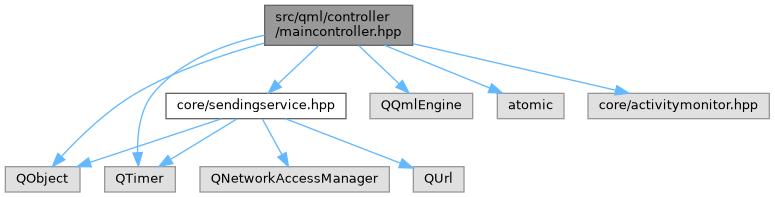
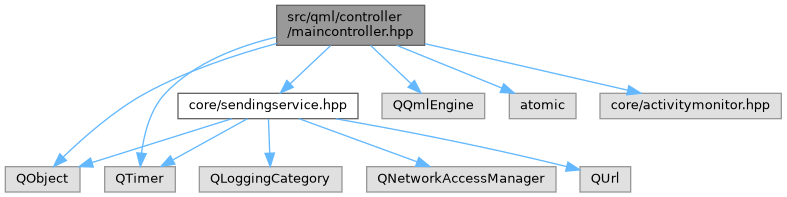
deploy: a168340f346ddaff8e5946f9dd9495eeeb2980ed

diff --git a/sendingservice_8hpp_source.html b/sendingservice_8hpp_source.html
@@ -83,45 +83,48 @@ $(document).ready(function() { init_codefold(0); });
 <div class="contents">
 <a href="sendingservice_8hpp.html">Go to the documentation of this file.</a><div class="fragment"><div class="line"><a id="l00001" name="l00001"></a><span class="lineno">    1</span><span class="preprocessor">#pragma once</span></div>
 <div class="line"><a id="l00002" name="l00002"></a><span class="lineno">    2</span> </div>
-<div class="line"><a id="l00003" name="l00003"></a><span class="lineno">    3</span><span class="preprocessor">#include &lt;QNetworkAccessManager&gt;</span></div>
-<div class="line"><a id="l00004" name="l00004"></a><span class="lineno">    4</span><span class="preprocessor">#include &lt;QObject&gt;</span></div>
-<div class="line"><a id="l00005" name="l00005"></a><span class="lineno">    5</span><span class="preprocessor">#include &lt;QTimer&gt;</span></div>
-<div class="line"><a id="l00006" name="l00006"></a><span class="lineno">    6</span><span class="preprocessor">#include &lt;QUrl&gt;</span></div>
-<div class="line"><a id="l00007" name="l00007"></a><span class="lineno">    7</span> </div>
-<div class="line"><a id="l00008" name="l00008"></a><span class="lineno">    8</span><span class="keyword">class </span>QNetworkReply;</div>
-<div class="line"><a id="l00009" name="l00009"></a><span class="lineno">    9</span> </div>
-<div class="foldopen" id="foldopen00014" data-start="{" data-end="};">
-<div class="line"><a id="l00014" name="l00014"></a><span class="lineno"><a class="line" href="classSendingService.html">   14</a></span><span class="keyword">class </span><a class="code hl_class" href="classSendingService.html">SendingService</a> : <span class="keyword">public</span> QObject</div>
-<div class="line"><a id="l00015" name="l00015"></a><span class="lineno">   15</span>{</div>
-<div class="line"><a id="l00016" name="l00016"></a><span class="lineno">   16</span>    Q_OBJECT</div>
-<div class="line"><a id="l00017" name="l00017"></a><span class="lineno">   17</span> </div>
-<div class="line"><a id="l00018" name="l00018"></a><span class="lineno">   18</span><span class="keyword">public</span>:</div>
-<div class="line"><a id="l00024" name="l00024"></a><span class="lineno"><a class="line" href="classSendingService.html#a4725127232ea47a6cd1708510d5abec8">   24</a></span>    <span class="keyword">explicit</span> <a class="code hl_function" href="classSendingService.html#a4725127232ea47a6cd1708510d5abec8">SendingService</a>(QObject *parent = <span class="keyword">nullptr</span>);</div>
-<div class="line"><a id="l00025" name="l00025"></a><span class="lineno">   25</span> </div>
-<div class="line"><a id="l00030" name="l00030"></a><span class="lineno"><a class="line" href="classSendingService.html#ab0196fe402ec1fcef247564586c41eaf">   30</a></span>    QUrl <a class="code hl_function" href="classSendingService.html#ab0196fe402ec1fcef247564586c41eaf">serverUrl</a>() <span class="keyword">const</span>;</div>
-<div class="line"><a id="l00035" name="l00035"></a><span class="lineno"><a class="line" href="classSendingService.html#a42dda7b4c7af2a3e19fa5d680219b99c">   35</a></span>    <span class="keywordtype">void</span> <a class="code hl_function" href="classSendingService.html#a42dda7b4c7af2a3e19fa5d680219b99c">setServerUrl</a>(<span class="keyword">const</span> QUrl &amp;url);</div>
-<div class="line"><a id="l00036" name="l00036"></a><span class="lineno">   36</span> </div>
-<div class="line"><a id="l00041" name="l00041"></a><span class="lineno"><a class="line" href="classSendingService.html#a1dc0c0ecfaf50a86b735775b8eb60a0a">   41</a></span>    <span class="keywordtype">void</span> <a class="code hl_function" href="classSendingService.html#a1dc0c0ecfaf50a86b735775b8eb60a0a">start</a>();</div>
-<div class="line"><a id="l00046" name="l00046"></a><span class="lineno"><a class="line" href="classSendingService.html#a5c9b8669459dbe85bbd290f2560af17a">   46</a></span>    <span class="keywordtype">void</span> <a class="code hl_function" href="classSendingService.html#a5c9b8669459dbe85bbd290f2560af17a">stop</a>();</div>
-<div class="line"><a id="l00051" name="l00051"></a><span class="lineno"><a class="line" href="classSendingService.html#adc824d31c0e51a45e6364c81b57d20f9">   51</a></span>    <span class="keywordtype">bool</span> <a class="code hl_function" href="classSendingService.html#adc824d31c0e51a45e6364c81b57d20f9">isActive</a>() <span class="keyword">const</span>;</div>
-<div class="line"><a id="l00052" name="l00052"></a><span class="lineno">   52</span> </div>
-<div class="line"><a id="l00053" name="l00053"></a><span class="lineno">   53</span>signals:</div>
-<div class="line"><a id="l00055" name="l00055"></a><span class="lineno"><a class="line" href="classSendingService.html#a0986f7ee849ac65afa3d20168dae6d25">   55</a></span>    <span class="keywordtype">void</span> <a class="code hl_signal" href="classSendingService.html#a0986f7ee849ac65afa3d20168dae6d25">serverUrlChanged</a>();</div>
-<div class="line"><a id="l00057" name="l00057"></a><span class="lineno"><a class="line" href="classSendingService.html#a98ac1cf723a73b1d32e464c3418a5694">   57</a></span>    <span class="keywordtype">void</span> <a class="code hl_signal" href="classSendingService.html#a98ac1cf723a73b1d32e464c3418a5694">sendSucceeded</a>();</div>
-<div class="line"><a id="l00059" name="l00059"></a><span class="lineno"><a class="line" href="classSendingService.html#a1f06beef9e350a0218e68dca42828a12">   59</a></span>    <span class="keywordtype">void</span> <a class="code hl_signal" href="classSendingService.html#a1f06beef9e350a0218e68dca42828a12">sendFailed</a>(<span class="keyword">const</span> QString &amp;errorString);</div>
-<div class="line"><a id="l00060" name="l00060"></a><span class="lineno">   60</span> </div>
-<div class="line"><a id="l00061" name="l00061"></a><span class="lineno">   61</span><span class="keyword">private</span>:</div>
-<div class="line"><a id="l00066" name="l00066"></a><span class="lineno">   66</span>    QByteArray buildRequestBody() <span class="keyword">const</span>;</div>
-<div class="line"><a id="l00067" name="l00067"></a><span class="lineno">   67</span> </div>
-<div class="line"><a id="l00073" name="l00073"></a><span class="lineno">   73</span>    <span class="keywordtype">void</span> sendNow();</div>
-<div class="line"><a id="l00079" name="l00079"></a><span class="lineno">   79</span>    <span class="keywordtype">void</span> handleReplyFinished(QNetworkReply *reply);</div>
-<div class="line"><a id="l00080" name="l00080"></a><span class="lineno">   80</span> </div>
-<div class="line"><a id="l00082" name="l00082"></a><span class="lineno">   82</span>    QNetworkAccessManager m_networkManager;</div>
-<div class="line"><a id="l00084" name="l00084"></a><span class="lineno">   84</span>    QTimer m_timer;</div>
-<div class="line"><a id="l00086" name="l00086"></a><span class="lineno">   86</span>    QUrl m_serverUrl;</div>
-<div class="line"><a id="l00087" name="l00087"></a><span class="lineno">   87</span>};</div>
+<div class="line"><a id="l00003" name="l00003"></a><span class="lineno">    3</span><span class="preprocessor">#include &lt;QLoggingCategory&gt;</span></div>
+<div class="line"><a id="l00004" name="l00004"></a><span class="lineno">    4</span><span class="preprocessor">#include &lt;QNetworkAccessManager&gt;</span></div>
+<div class="line"><a id="l00005" name="l00005"></a><span class="lineno">    5</span><span class="preprocessor">#include &lt;QObject&gt;</span></div>
+<div class="line"><a id="l00006" name="l00006"></a><span class="lineno">    6</span><span class="preprocessor">#include &lt;QTimer&gt;</span></div>
+<div class="line"><a id="l00007" name="l00007"></a><span class="lineno">    7</span><span class="preprocessor">#include &lt;QUrl&gt;</span></div>
+<div class="line"><a id="l00008" name="l00008"></a><span class="lineno">    8</span> </div>
+<div class="line"><a id="l00009" name="l00009"></a><span class="lineno">    9</span>Q_DECLARE_LOGGING_CATEGORY(worktimeSendingService)</div>
+<div class="line"><a id="l00010" name="l00010"></a><span class="lineno">   10</span> </div>
+<div class="line"><a id="l00011" name="l00011"></a><span class="lineno">   11</span><span class="keyword">class </span>QNetworkReply;</div>
+<div class="line"><a id="l00012" name="l00012"></a><span class="lineno">   12</span> </div>
+<div class="foldopen" id="foldopen00017" data-start="{" data-end="};">
+<div class="line"><a id="l00017" name="l00017"></a><span class="lineno"><a class="line" href="classSendingService.html">   17</a></span><span class="keyword">class </span><a class="code hl_class" href="classSendingService.html">SendingService</a> : <span class="keyword">public</span> QObject</div>
+<div class="line"><a id="l00018" name="l00018"></a><span class="lineno">   18</span>{</div>
+<div class="line"><a id="l00019" name="l00019"></a><span class="lineno">   19</span>    Q_OBJECT</div>
+<div class="line"><a id="l00020" name="l00020"></a><span class="lineno">   20</span> </div>
+<div class="line"><a id="l00021" name="l00021"></a><span class="lineno">   21</span><span class="keyword">public</span>:</div>
+<div class="line"><a id="l00027" name="l00027"></a><span class="lineno"><a class="line" href="classSendingService.html#a4725127232ea47a6cd1708510d5abec8">   27</a></span>    <span class="keyword">explicit</span> <a class="code hl_function" href="classSendingService.html#a4725127232ea47a6cd1708510d5abec8">SendingService</a>(QObject *parent = <span class="keyword">nullptr</span>);</div>
+<div class="line"><a id="l00028" name="l00028"></a><span class="lineno">   28</span> </div>
+<div class="line"><a id="l00033" name="l00033"></a><span class="lineno"><a class="line" href="classSendingService.html#ab0196fe402ec1fcef247564586c41eaf">   33</a></span>    QUrl <a class="code hl_function" href="classSendingService.html#ab0196fe402ec1fcef247564586c41eaf">serverUrl</a>() <span class="keyword">const</span>;</div>
+<div class="line"><a id="l00038" name="l00038"></a><span class="lineno"><a class="line" href="classSendingService.html#a42dda7b4c7af2a3e19fa5d680219b99c">   38</a></span>    <span class="keywordtype">void</span> <a class="code hl_function" href="classSendingService.html#a42dda7b4c7af2a3e19fa5d680219b99c">setServerUrl</a>(<span class="keyword">const</span> QUrl &amp;url);</div>
+<div class="line"><a id="l00039" name="l00039"></a><span class="lineno">   39</span> </div>
+<div class="line"><a id="l00044" name="l00044"></a><span class="lineno"><a class="line" href="classSendingService.html#a1dc0c0ecfaf50a86b735775b8eb60a0a">   44</a></span>    <span class="keywordtype">void</span> <a class="code hl_function" href="classSendingService.html#a1dc0c0ecfaf50a86b735775b8eb60a0a">start</a>();</div>
+<div class="line"><a id="l00049" name="l00049"></a><span class="lineno"><a class="line" href="classSendingService.html#a5c9b8669459dbe85bbd290f2560af17a">   49</a></span>    <span class="keywordtype">void</span> <a class="code hl_function" href="classSendingService.html#a5c9b8669459dbe85bbd290f2560af17a">stop</a>();</div>
+<div class="line"><a id="l00054" name="l00054"></a><span class="lineno"><a class="line" href="classSendingService.html#adc824d31c0e51a45e6364c81b57d20f9">   54</a></span>    <span class="keywordtype">bool</span> <a class="code hl_function" href="classSendingService.html#adc824d31c0e51a45e6364c81b57d20f9">isActive</a>() <span class="keyword">const</span>;</div>
+<div class="line"><a id="l00055" name="l00055"></a><span class="lineno">   55</span> </div>
+<div class="line"><a id="l00056" name="l00056"></a><span class="lineno">   56</span>signals:</div>
+<div class="line"><a id="l00058" name="l00058"></a><span class="lineno"><a class="line" href="classSendingService.html#a0986f7ee849ac65afa3d20168dae6d25">   58</a></span>    <span class="keywordtype">void</span> <a class="code hl_signal" href="classSendingService.html#a0986f7ee849ac65afa3d20168dae6d25">serverUrlChanged</a>();</div>
+<div class="line"><a id="l00060" name="l00060"></a><span class="lineno"><a class="line" href="classSendingService.html#a98ac1cf723a73b1d32e464c3418a5694">   60</a></span>    <span class="keywordtype">void</span> <a class="code hl_signal" href="classSendingService.html#a98ac1cf723a73b1d32e464c3418a5694">sendSucceeded</a>();</div>
+<div class="line"><a id="l00062" name="l00062"></a><span class="lineno"><a class="line" href="classSendingService.html#a1f06beef9e350a0218e68dca42828a12">   62</a></span>    <span class="keywordtype">void</span> <a class="code hl_signal" href="classSendingService.html#a1f06beef9e350a0218e68dca42828a12">sendFailed</a>(<span class="keyword">const</span> QString &amp;errorString);</div>
+<div class="line"><a id="l00063" name="l00063"></a><span class="lineno">   63</span> </div>
+<div class="line"><a id="l00064" name="l00064"></a><span class="lineno">   64</span><span class="keyword">private</span>:</div>
+<div class="line"><a id="l00069" name="l00069"></a><span class="lineno">   69</span>    QByteArray buildRequestBody() <span class="keyword">const</span>;</div>
+<div class="line"><a id="l00070" name="l00070"></a><span class="lineno">   70</span> </div>
+<div class="line"><a id="l00076" name="l00076"></a><span class="lineno">   76</span>    <span class="keywordtype">void</span> sendNow();</div>
+<div class="line"><a id="l00082" name="l00082"></a><span class="lineno">   82</span>    <span class="keywordtype">void</span> handleReplyFinished(QNetworkReply *reply);</div>
+<div class="line"><a id="l00083" name="l00083"></a><span class="lineno">   83</span> </div>
+<div class="line"><a id="l00085" name="l00085"></a><span class="lineno">   85</span>    QNetworkAccessManager m_networkManager;</div>
+<div class="line"><a id="l00087" name="l00087"></a><span class="lineno">   87</span>    QTimer m_timer;</div>
+<div class="line"><a id="l00089" name="l00089"></a><span class="lineno">   89</span>    QUrl m_serverUrl;</div>
+<div class="line"><a id="l00090" name="l00090"></a><span class="lineno">   90</span>};</div>
 </div>
-<div class="ttc" id="aclassSendingService_html"><div class="ttname"><a href="classSendingService.html">SendingService</a></div><div class="ttdoc">Periodically submits one activity sample to the Worktime remote endpoint.</div><div class="ttdef"><b>Definition</b> sendingservice.hpp:15</div></div>
+<div class="ttc" id="aclassSendingService_html"><div class="ttname"><a href="classSendingService.html">SendingService</a></div><div class="ttdoc">Periodically submits one activity sample to the Worktime remote endpoint.</div><div class="ttdef"><b>Definition</b> sendingservice.hpp:18</div></div>
 <div class="ttc" id="aclassSendingService_html_a0986f7ee849ac65afa3d20168dae6d25"><div class="ttname"><a href="classSendingService.html#a0986f7ee849ac65afa3d20168dae6d25">SendingService::serverUrlChanged</a></div><div class="ttdeci">void serverUrlChanged()</div><div class="ttdoc">Emmited after a server url changed.</div></div>
 <div class="ttc" id="aclassSendingService_html_a1dc0c0ecfaf50a86b735775b8eb60a0a"><div class="ttname"><a href="classSendingService.html#a1dc0c0ecfaf50a86b735775b8eb60a0a">SendingService::start</a></div><div class="ttdeci">void start()</div><div class="ttdoc">Starts the periodic send timer and sends immediately once.</div></div>
 <div class="ttc" id="aclassSendingService_html_a1f06beef9e350a0218e68dca42828a12"><div class="ttname"><a href="classSendingService.html#a1f06beef9e350a0218e68dca42828a12">SendingService::sendFailed</a></div><div class="ttdeci">void sendFailed(const QString &amp;errorString)</div><div class="ttdoc">Emitted after a send request fails, with a human-readable reason.</div></div>

diff --git a/maincontroller_8hpp.html b/maincontroller_8hpp.html
@@ -89,25 +89,27 @@ Include dependency graph for maincontroller.hpp:</div>
 <div class="dyncontent">
 <div class="center"><img src="maincontroller_8hpp__incl.png" border="0" usemap="#asrc_2qml_2controller_2maincontroller_8hpp" alt=""/></div>
 <map name="asrc_2qml_2controller_2maincontroller_8hpp" id="asrc_2qml_2controller_2maincontroller_8hpp">
-<area shape="rect" title=" " alt="" coords="265,5,413,45"/>
+<area shape="rect" title=" " alt="" coords="277,5,425,45"/>
 <area shape="rect" title=" " alt="" coords="5,167,80,192"/>
-<area shape="poly" title=" " alt="" coords="265,46,201,66,137,96,96,126,63,158,60,154,93,122,135,91,199,61,263,41"/>
-<area shape="rect" title=" " alt="" coords="370,93,473,119"/>
-<area shape="poly" title=" " alt="" coords="361,44,401,82,397,86,357,47"/>
+<area shape="poly" title=" " alt="" coords="277,46,212,67,147,96,101,127,65,159,61,155,98,122,144,91,210,62,276,41"/>
+<area shape="rect" title=" " alt="" coords="382,93,485,119"/>
+<area shape="poly" title=" " alt="" coords="373,44,413,82,409,86,369,47"/>
 <area shape="rect" title=" " alt="" coords="105,167,175,192"/>
-<area shape="poly" title=" " alt="" coords="265,38,236,46,206,57,178,74,155,95,148,108,143,123,140,153,135,152,138,122,143,106,151,92,175,69,203,53,234,41,264,33"/>
-<area shape="rect" title=" " alt="" coords="497,93,564,119"/>
-<area shape="poly" title=" " alt="" coords="386,43,491,86,489,91,384,48"/>
-<area shape="rect" title=" " alt="" coords="588,93,769,119"/>
-<area shape="poly" title=" " alt="" coords="413,41,616,88,615,93,412,46"/>
-<area shape="rect" href="sendingservice_8hpp.html" title=" " alt="" coords="166,93,346,119"/>
-<area shape="poly" title=" " alt="" coords="320,47,280,86,276,82,317,44"/>
-<area shape="poly" title=" " alt="" coords="223,121,91,165,89,160,221,116"/>
-<area shape="poly" title=" " alt="" coords="239,121,172,162,169,157,236,116"/>
-<area shape="rect" title=" " alt="" coords="200,167,389,192"/>
-<area shape="poly" title=" " alt="" coords="265,118,284,153,280,156,260,120"/>
-<area shape="rect" title=" " alt="" coords="413,167,464,192"/>
-<area shape="poly" title=" " alt="" coords="286,116,401,161,399,166,284,121"/>
+<area shape="poly" title=" " alt="" coords="277,40,219,60,191,75,167,95,151,123,144,154,139,153,146,121,163,92,188,71,216,55,276,35"/>
+<area shape="rect" title=" " alt="" coords="509,93,576,119"/>
+<area shape="poly" title=" " alt="" coords="398,43,503,86,501,91,396,48"/>
+<area shape="rect" title=" " alt="" coords="600,93,781,119"/>
+<area shape="poly" title=" " alt="" coords="425,41,628,88,627,93,424,46"/>
+<area shape="rect" href="sendingservice_8hpp.html" title=" " alt="" coords="178,93,358,119"/>
+<area shape="poly" title=" " alt="" coords="332,47,292,86,288,82,329,44"/>
+<area shape="poly" title=" " alt="" coords="233,121,93,165,91,160,231,116"/>
+<area shape="poly" title=" " alt="" coords="249,121,174,162,172,157,246,116"/>
+<area shape="rect" title=" " alt="" coords="199,167,342,192"/>
+<area shape="poly" title=" " alt="" coords="271,119,272,153,267,153,266,119"/>
+<area shape="rect" title=" " alt="" coords="367,167,556,192"/>
+<area shape="poly" title=" " alt="" coords="300,116,418,159,416,164,298,121"/>
+<area shape="rect" title=" " alt="" coords="580,167,631,192"/>
+<area shape="poly" title=" " alt="" coords="336,116,441,136,567,164,566,169,440,141,335,121"/>
 </map>
 </div>
 </div>

diff --git a/sendingservice_8hpp.html b/sendingservice_8hpp.html
@@ -78,7 +78,8 @@ $(function() {
   <div class="headertitle"><div class="title">sendingservice.hpp File Reference</div></div>
 </div><!--header-->
 <div class="contents">
-<div class="textblock"><code>#include &lt;QNetworkAccessManager&gt;</code><br />
+<div class="textblock"><code>#include &lt;QLoggingCategory&gt;</code><br />
+<code>#include &lt;QNetworkAccessManager&gt;</code><br />
 <code>#include &lt;QObject&gt;</code><br />
 <code>#include &lt;QTimer&gt;</code><br />
 <code>#include &lt;QUrl&gt;</code><br />
@@ -87,15 +88,17 @@ Include dependency graph for sendingservice.hpp:</div>
 <div class="dyncontent">
 <div class="center"><img src="sendingservice_8hpp__incl.png" border="0" usemap="#asrc_2core_2sendingservice_8hpp" alt=""/></div>
 <map name="asrc_2core_2sendingservice_8hpp" id="asrc_2core_2sendingservice_8hpp">
-<area shape="rect" title=" " alt="" coords="203,5,405,31"/>
-<area shape="rect" title=" " alt="" coords="5,79,195,104"/>
-<area shape="poly" title=" " alt="" coords="272,33,147,77,145,72,270,28"/>
-<area shape="rect" title=" " alt="" coords="219,79,293,104"/>
-<area shape="poly" title=" " alt="" coords="298,33,274,69,269,66,294,30"/>
-<area shape="rect" title=" " alt="" coords="318,79,389,104"/>
-<area shape="poly" title=" " alt="" coords="314,29,340,66,335,69,310,33"/>
-<area shape="rect" title=" " alt="" coords="413,79,464,104"/>
-<area shape="poly" title=" " alt="" coords="327,28,406,70,403,74,324,33"/>
+<area shape="rect" title=" " alt="" coords="322,5,525,31"/>
+<area shape="rect" title=" " alt="" coords="5,79,148,104"/>
+<area shape="poly" title=" " alt="" coords="368,33,147,78,146,73,367,28"/>
+<area shape="rect" title=" " alt="" coords="173,79,362,104"/>
+<area shape="poly" title=" " alt="" coords="399,33,306,75,304,70,397,28"/>
+<area shape="rect" title=" " alt="" coords="386,79,461,104"/>
+<area shape="poly" title=" " alt="" coords="426,31,426,65,421,65,421,31"/>
+<area shape="rect" title=" " alt="" coords="485,79,556,104"/>
+<area shape="poly" title=" " alt="" coords="441,29,495,68,492,72,437,33"/>
+<area shape="rect" title=" " alt="" coords="581,79,631,104"/>
+<area shape="poly" title=" " alt="" coords="454,28,568,73,567,78,452,33"/>
 </map>
 </div>
 </div><div class="textblock"><div class="dynheader">

diff --git a/maincontroller_8hpp_source.html b/maincontroller_8hpp_source.html
@@ -158,7 +158,7 @@ $(document).ready(function() { init_codefold(0); });
 <div class="ttc" id="aclassMainController_html_ae06e8a426abf727fe9dc8dd3401f8c5f"><div class="ttname"><a href="classMainController.html#ae06e8a426abf727fe9dc8dd3401f8c5f">MainController::startButtonPushed</a></div><div class="ttdeci">bool startButtonPushed</div><div class="ttdef"><b>Definition</b> maincontroller.hpp:29</div></div>
 <div class="ttc" id="aclassMainController_html_af0d392622bd2b6f7e0b7612bd88f6b25"><div class="ttname"><a href="classMainController.html#af0d392622bd2b6f7e0b7612bd88f6b25">MainController::autoStartup</a></div><div class="ttdeci">bool autoStartup</div><div class="ttdef"><b>Definition</b> maincontroller.hpp:28</div></div>
 <div class="ttc" id="aclassMainController_html_aff3dd90afb1222afb2602ce81942aea6"><div class="ttname"><a href="classMainController.html#aff3dd90afb1222afb2602ce81942aea6">MainController::setPassword</a></div><div class="ttdeci">void setPassword(const QString &amp;password) const</div><div class="ttdoc">Forwards to Settings::setPassword().</div></div>
-<div class="ttc" id="aclassSendingService_html"><div class="ttname"><a href="classSendingService.html">SendingService</a></div><div class="ttdoc">Periodically submits one activity sample to the Worktime remote endpoint.</div><div class="ttdef"><b>Definition</b> sendingservice.hpp:15</div></div>
+<div class="ttc" id="aclassSendingService_html"><div class="ttname"><a href="classSendingService.html">SendingService</a></div><div class="ttdoc">Periodically submits one activity sample to the Worktime remote endpoint.</div><div class="ttdef"><b>Definition</b> sendingservice.hpp:18</div></div>
 <div class="ttc" id="asendingservice_8hpp_html"><div class="ttname"><a href="sendingservice_8hpp.html">sendingservice.hpp</a></div></div>
 </div><!-- fragment --></div><!-- contents -->
 <!-- start footer part -->
